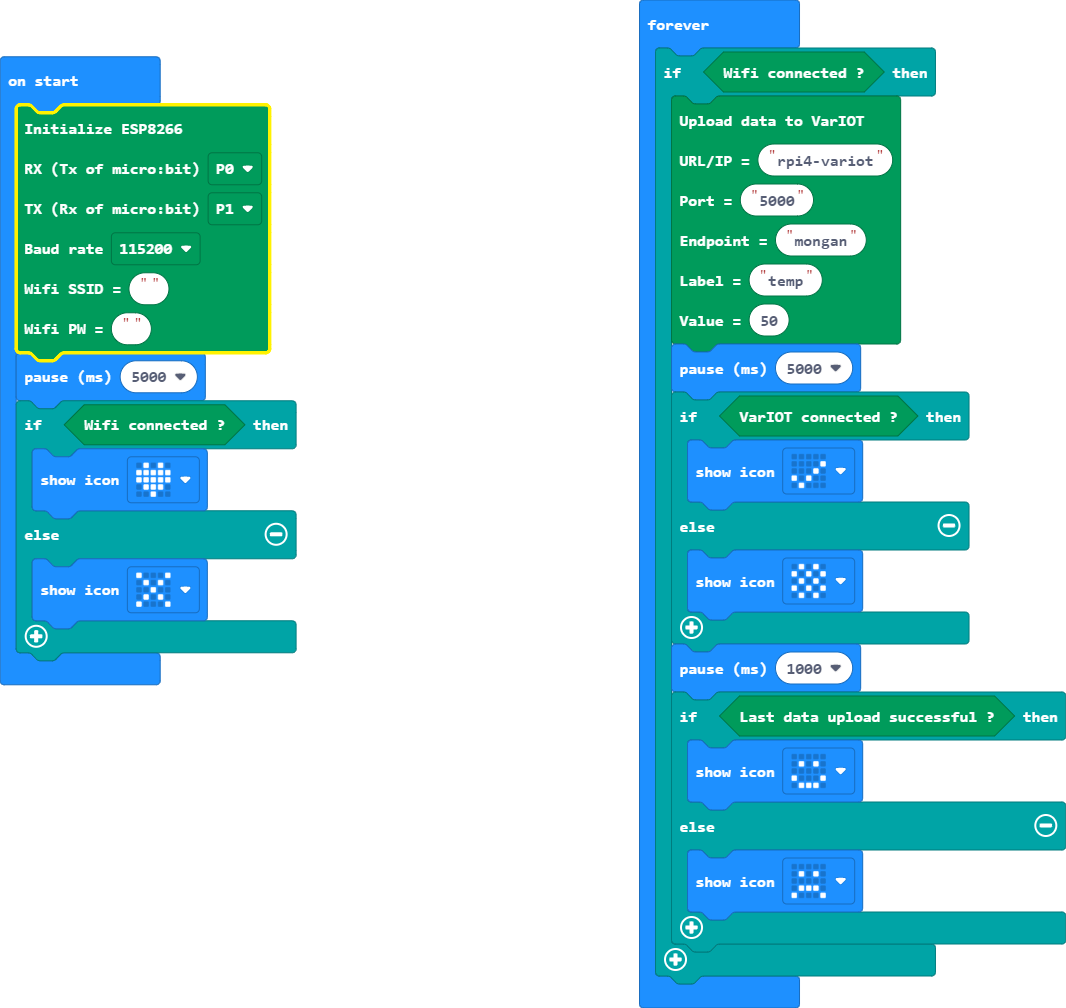
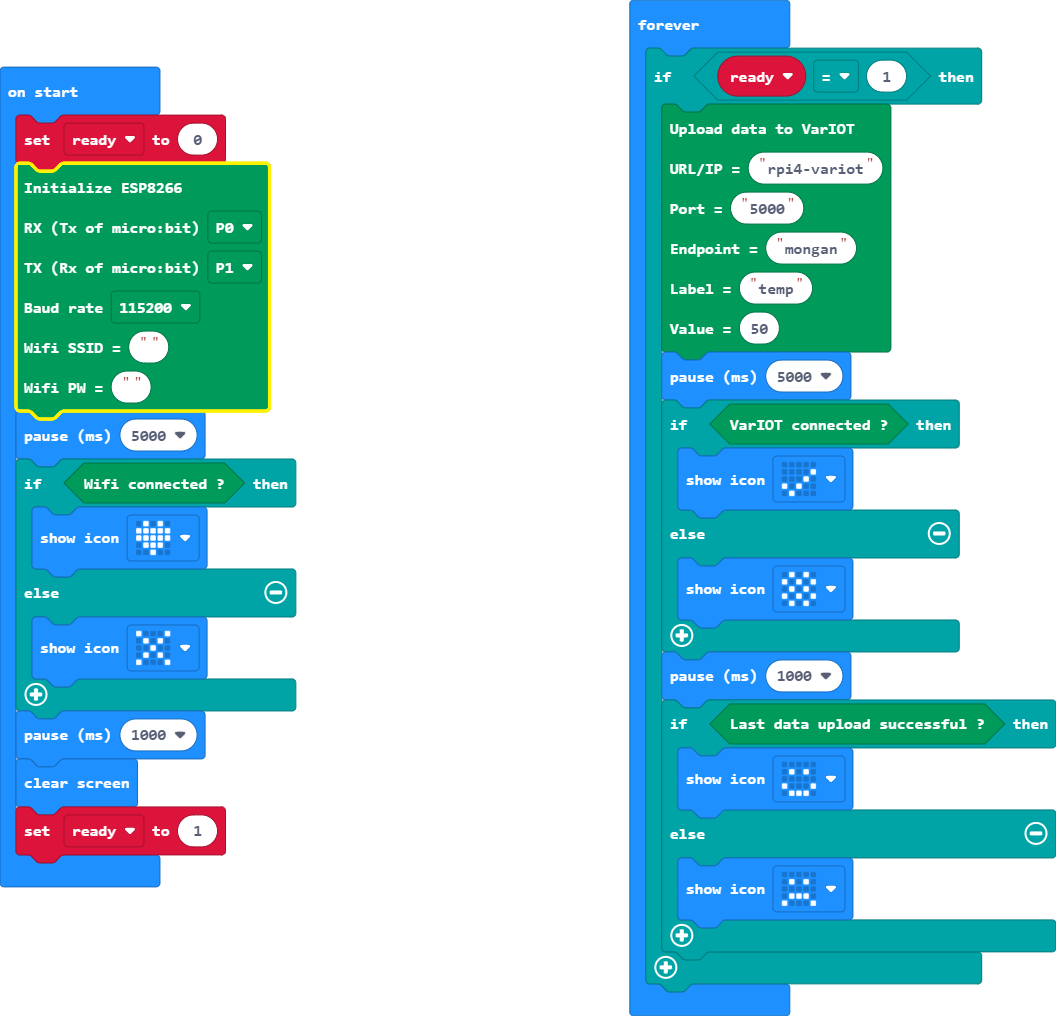
wait for wifi

diff --git a/main.ts b/main.ts
@@ -1,3 +1,4 @@
+let ready = 0
 ESP8266VarIOT.connectWifi(
 SerialPin.P0,
 SerialPin.P1,
@@ -11,8 +12,11 @@ if (ESP8266VarIOT.isWifiConnected()) {
 } else {
     basic.showIcon(IconNames.No)
 }
+basic.pause(1000)
+basic.clearScreen()
+ready = 1
 basic.forever(function () {
-    if (ESP8266VarIOT.isWifiConnected()) {
+    if (ready == 1) {
         ESP8266VarIOT.sendVarIOTTelemetry(
         "rpi4-variot",
         "5000",

diff --git a/main.py b/main.py
@@ -1,0 +1,25 @@
+ESP8266VarIOT.connect_wifi(SerialPin.P0,
+    SerialPin.P1,
+    BaudRate.BAUD_RATE115200,
+    "mongan",
+    "responsibilit1")
+basic.pause(5000)
+if ESP8266VarIOT.is_wifi_connected():
+    basic.show_icon(IconNames.HEART)
+else:
+    basic.show_icon(IconNames.NO)
+
+def on_forever():
+    if ESP8266VarIOT.is_wifi_connected():
+        ESP8266VarIOT.send_var_iot_telemetry("rpi4-variot", "5000", "mongan", "temp", 50)
+        basic.pause(5000)
+        if ESP8266VarIOT.is_var_iot_connected():
+            basic.show_icon(IconNames.YES)
+        else:
+            basic.show_icon(IconNames.CHESSBOARD)
+        basic.pause(1000)
+        if ESP8266VarIOT.is_last_upload_successful():
+            basic.show_icon(IconNames.HAPPY)
+        else:
+            basic.show_icon(IconNames.SAD)
+basic.forever(on_forever)
